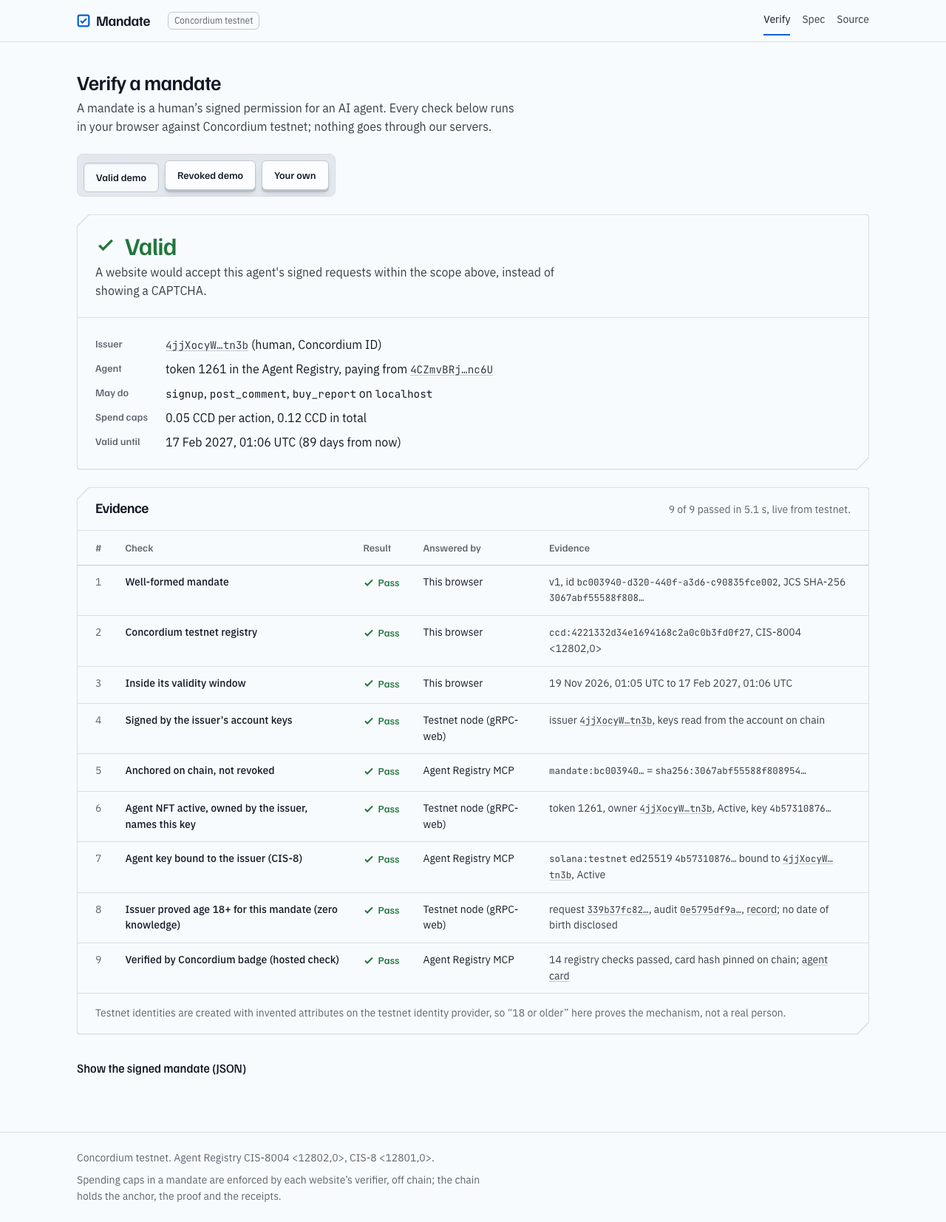
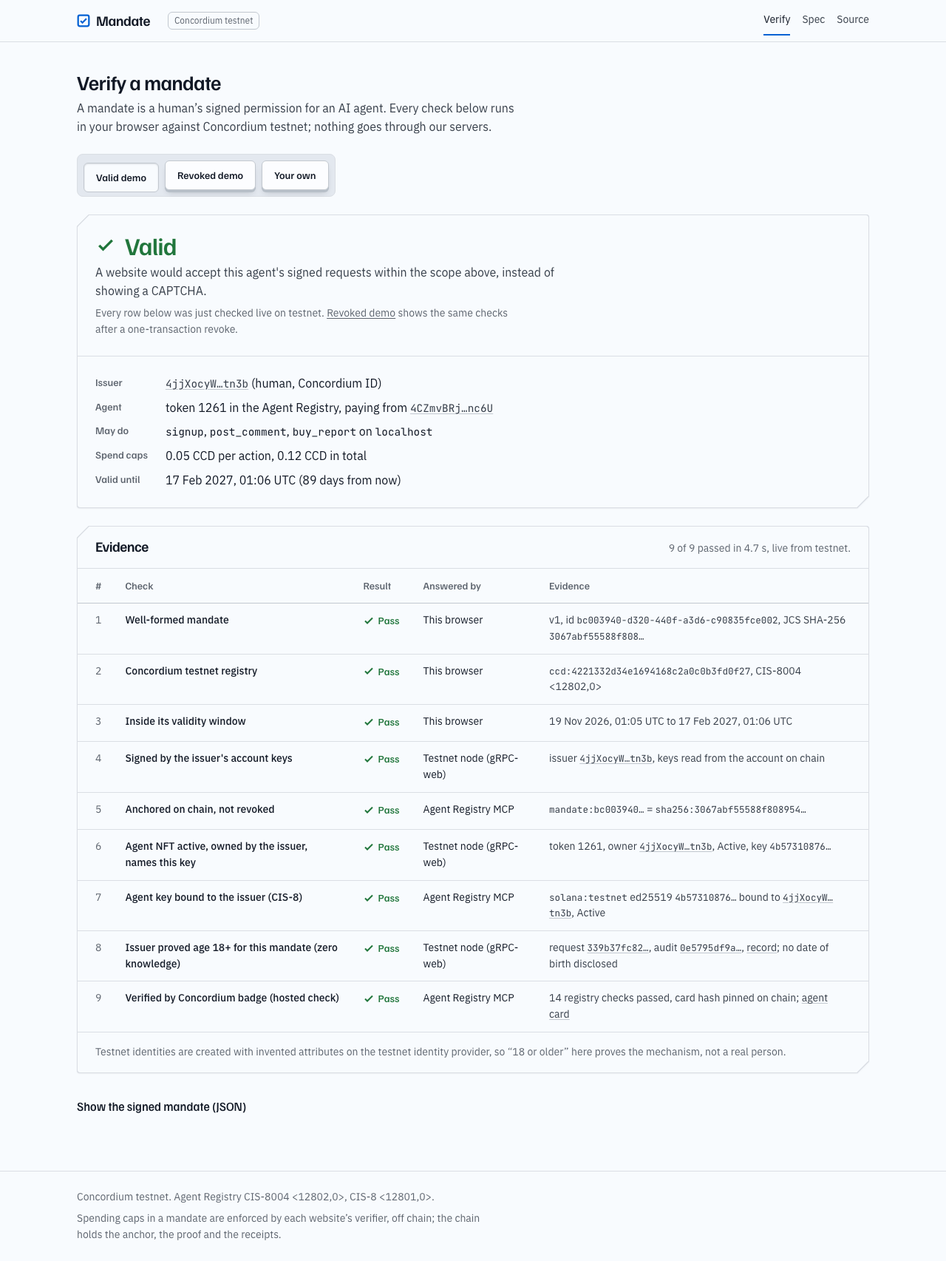
Final-gate fixes: phone layout of the console, invented demo-site name, focused rejection view, verify-page retries and could-not-check state
- console mandates become stacked cards under 48rem; nav labels never wrap; layout guard in Playwright (no horizontal overflow, no overlapping cells, no wrapping nav links), shown to catch the old layout
- demo site renamed to the fictional Larchfield Reports
- feed: a rejection shows the failing check first, passed checks next, and one quiet line for checks not run; screenshots stay collapsed
- verify page: a hint under Valid; up to 3 attempts with a visible Retrying state; a network failure renders as Could not check, never Invalid (tests simulate both)
- secret guard reads secret files in subdirectories too

diff --git a/apps/verify-page/src/main.ts b/apps/verify-page/src/main.ts
@@ -59,13 +59,14 @@ function evidence(name: CheckName | "badge", m: Mandate, seen: RecordingView["se
   }
 }
 
-interface BadgeResult { ok: boolean; checks?: Record<string, unknown>; card?: string; error?: string }
+interface BadgeResult { ok: boolean; unavailable?: boolean; checks?: Record<string, unknown>; card?: string; error?: string }
 
-function row(i: number, name: CheckName | "badge", c: { ok: boolean | null; source?: string; reason?: string } | null, detail: string): string {
+function row(i: number, name: CheckName | "badge", c: { ok: boolean | null; source?: string; reason?: string; unknown?: boolean } | null, detail: string): string {
   const wait = c === null;
-  const state = wait ? "wait" : c.ok === false ? "fail" : c.ok === true ? "pass" : "skip";
-  const why = c?.ok === false && c.reason ? `<strong>${esc(c.reason)}</strong>${detail ? "<br>" : ""}` : "";
-  return `<tr data-state="${state}"><td class="n">${i}</td><td class="what">${LABEL[name]}</td><td class="res">${status(c?.ok ?? null, wait)}</td><td class="src">${wait ? '<span class="skeleton" style="width:8rem"></span>' : esc(SOURCE[c?.source ?? "local"] ?? String(c?.source))}</td><td class="detail">${why}${detail}</td></tr>`;
+  const state = wait ? "wait" : c.unknown ? "unknown" : c.ok === false ? "fail" : c.ok === true ? "pass" : "skip";
+  const why = (c?.ok === false || c?.unknown) && c?.reason ? `<strong>${esc(c.reason)}</strong>${detail ? "<br>" : ""}` : "";
+  const res = c?.unknown ? `<span class="status status--warn">${ICON.skip}Could not check</span>` : status(c?.ok ?? null, wait);
+  return `<tr data-state="${state}"><td class="n">${i}</td><td class="what">${LABEL[name]}</td><td class="res">${res}</td><td class="src">${wait ? '<span class="skeleton" style="width:8rem"></span>' : esc(SOURCE[c?.source ?? "local"] ?? String(c?.source))}</td><td class="detail">${why}${detail}</td></tr>`;
 }
 
 function renderFacts(sm: SignedMandate) {
@@ -86,11 +87,39 @@ function renderFacts(sm: SignedMandate) {
 
 function setVerdict(kind: "pass" | "fail" | "wait", word: string, why: string) {
   $("verdict").className = `verdict verdict--${kind}`;
+  $("verdict-hint").hidden = true;
   $("verdict-word").innerHTML = `${kind === "pass" ? ICON.pass : kind === "fail" ? ICON.fail : ""}${esc(word)}`;
   $("verdict-why").textContent = why;
 }
 
-const WORD: Record<string, string> = { revoked: "Revoked", expired: "Expired", not_yet_valid: "Not yet valid", chain_unavailable: "Could not reach the chain" };
+const WORD: Record<string, string> = { revoked: "Revoked", expired: "Expired", not_yet_valid: "Not yet valid" };
+const ATTEMPTS = 3;
+
+/** A failure caused by the network (node, MCP or record host not answering), not by the mandate. Never shown as "invalid". */
+function transient(c: { ok: boolean | null; code?: string; reason?: string } | undefined): boolean {
+  if (!c || c.ok !== false) return false;
+  if (c.code === "chain_unavailable") return true;
+  return c.code === "adult_proof_invalid" && /unavailable|failed to fetch|timed? ?out|HTTP 5\d\d|network/i.test(c.reason ?? "");
+}
+
+interface Attempt { result: VerifyResult; view: RecordingView; badge: BadgeResult }
+
+async function attempt(sm: SignedMandate): Promise<Attempt> {
+  const mcp = new McpClient(TESTNET.mcpUrl, "testnet", 6000);
+  const client = new ConcordiumGRPCWebClient(`https://${TESTNET.grpcHost}`, TESTNET.grpcPort, { timeout: 15000 });
+  const registry = await loadRegistry(client);
+  const view = new RecordingView(new ConcordiumChainView({ client, registry, mcp, fetchRecord: defaultRecordFetcher() }));
+  const badgeP = (async (): Promise<BadgeResult> => {
+    try {
+      const a = await mcp.agentOf(sm.mandate.agent.tokenId);
+      if (!a) return { ok: false, error: "agent not found" };
+      const b = await mcp.checkBadge(a.tokenAddress);
+      return { ok: b.badge_valid && b.issues.length === 0, checks: b.checks, card: a.agentUri ?? undefined, ...(b.badge_valid ? {} : { error: `badge invalid: ${JSON.stringify(b.issues).slice(0, 160)}` }) };
+    } catch (e) { return { ok: false, unavailable: true, error: `the Agent Registry service did not answer (${(e as Error).message.slice(0, 80)})` }; }
+  })();
+  const result = await verifyMandate(sm, { network: CCD_TESTNET, registry: { index: String(TESTNET.cis8004.index), subindex: "0" } }, view);
+  return { result, view, badge: await badgeP };
+}
 
 async function run(sm: SignedMandate) {
   $("result").setAttribute("aria-busy", "true");
@@ -100,43 +129,50 @@ async function run(sm: SignedMandate) {
   const tbody = $("ledger").querySelector("tbody")!;
   tbody.innerHTML = order.map((n, i) => row(i + 1, n, null, "")).join("");
   const t0 = performance.now();
-  let result: VerifyResult;
-  let view: RecordingView;
-  const mcp = new McpClient(TESTNET.mcpUrl, "testnet", 6000);
-  let badge: BadgeResult | undefined;
-  try {
-    const client = new ConcordiumGRPCWebClient(`https://${TESTNET.grpcHost}`, TESTNET.grpcPort, { timeout: 15000 });
-    const registry = await loadRegistry(client);
-    view = new RecordingView(new ConcordiumChainView({ client, registry, mcp, fetchRecord: defaultRecordFetcher() }));
-    const badgeP = (async (): Promise<BadgeResult> => {
-      try {
-        const a = await mcp.agentOf(sm.mandate.agent.tokenId);
-        if (!a) return { ok: false, error: "agent not found" };
-        const b = await mcp.checkBadge(a.tokenAddress);
-        return { ok: b.badge_valid && b.issues.length === 0, checks: b.checks, card: a.agentUri ?? undefined, ...(b.badge_valid ? {} : { error: `badge invalid: ${JSON.stringify(b.issues).slice(0, 160)}` }) };
-      } catch (e) { return { ok: false, error: `badge check unavailable: ${(e as Error).message}` }; }
-    })();
-    result = await verifyMandate(sm, { network: CCD_TESTNET, registry: { index: String(TESTNET.cis8004.index), subindex: "0" } }, view);
-    badge = await badgeP;
-  } catch (e) {
-    setVerdict("fail", "Could not reach the chain", `The testnet node did not answer (${(e as Error).message.slice(0, 120)}). Try again in a minute.`);
-    tbody.innerHTML = order.map((n, i) => row(i + 1, n, { ok: null }, "")).join("");
+  let got: Attempt | null = null;
+  let lastError = "";
+  for (let i = 1; i <= ATTEMPTS; i++) {
+    try {
+      got = await attempt(sm);
+      const shaky = got.result.checks.some(transient) || !!got.badge.unavailable;
+      if (!shaky || i === ATTEMPTS) break;
+      lastError = "a testnet service did not answer";
+    } catch (e) {
+      got = null;
+      lastError = (e as Error).message.slice(0, 120);
+      if (i === ATTEMPTS) break;
+    }
+    setVerdict("wait", "Retrying", `Attempt ${i + 1} of ${ATTEMPTS}: ${lastError}. This is a network problem, not a problem with the mandate.`);
+    $("elapsed").textContent = `Retrying in ${2 * i} s`;
+    await new Promise((r) => setTimeout(r, 2000 * i));
+  }
+  if (!got) {
+    setVerdict("wait", "Could not check", `Concordium testnet did not answer after ${ATTEMPTS} attempts (${lastError}). This says nothing about the mandate; reload in a minute.`);
+    tbody.innerHTML = order.map((n, i) => row(i + 1, n, { ok: null, unknown: true }, "")).join("");
+    $("elapsed").textContent = "Could not reach testnet.";
     $("result").setAttribute("aria-busy", "false");
     return;
   }
+  const { result, view, badge } = got;
   const hash = mandateHash(sm.mandate);
   const byName = new Map<string, Check>(result.checks.map((c) => [c.name, c]));
   tbody.innerHTML = order.map((n, i) => {
-    if (n === "badge") return row(i + 1, n, { ok: badge!.ok, source: "mcp", ...(badge!.error ? { reason: badge!.error } : {}) }, evidence(n, sm.mandate, view.seen, hash, badge));
+    if (n === "badge") return row(i + 1, n, { ok: badge.unavailable ? null : badge.ok, unknown: !!badge.unavailable, source: "mcp", ...(badge.error ? { reason: badge.error } : {}) }, evidence(n, sm.mandate, view.seen, hash, badge));
     const c = byName.get(n)!;
-    return row(i + 1, n, c, evidence(n, sm.mandate, view.seen, hash));
+    return row(i + 1, n, transient(c) ? { ...c, ok: null, unknown: true } : c, evidence(n, sm.mandate, view.seen, hash));
   }).join("");
-  $("elapsed").textContent = `${result.checks.filter((c) => c.ok).length + (badge?.ok ? 1 : 0)} of ${order.length} passed in ${((performance.now() - t0) / 1000).toFixed(1)} s, live from testnet.`;
-  if (result.ok) setVerdict("pass", "Valid", "A website would accept this agent's signed requests within the scope above, instead of showing a CAPTCHA.");
-  else if (result.code === "revoked") {
+  const unknown = result.checks.filter(transient).length + (badge.unavailable ? 1 : 0);
+  const passed = result.checks.filter((c) => c.ok).length + (badge.ok ? 1 : 0);
+  $("elapsed").textContent = `${passed} of ${order.length} passed${unknown ? `, ${unknown} could not be checked` : ""} in ${((performance.now() - t0) / 1000).toFixed(1)} s, live from testnet.`;
+  const realFail = result.checks.find((c) => c.ok === false && !transient(c));
+  if (result.ok) {
+    setVerdict("pass", "Valid", "A website would accept this agent's signed requests within the scope above, instead of showing a CAPTCHA.");
+    $("verdict-hint").hidden = false;
+  } else if (realFail?.code === "revoked") {
     const at = /^revoked\|at:(\d+)$/.exec(String(view.seen.anchor ?? ""))?.[1];
     setVerdict("fail", "Revoked", `The issuer revoked this mandate on chain${at ? ` on ${fmtDate(Number(at))}` : ""}. Websites now reject the agent's requests; the demo site notices within its 10-second cache bound.`);
-  } else setVerdict("fail", WORD[result.code!] ?? "Rejected", result.reason ?? "");
+  } else if (realFail) setVerdict("fail", WORD[realFail.code!] ?? "Rejected", realFail.reason ?? "");
+  else setVerdict("wait", "Could not check", "Every check that ran passed, but part of testnet did not answer after 3 attempts. This says nothing against the mandate; reload in a minute.");
   $("result").setAttribute("aria-busy", "false");
 }
 

diff --git a/tests/web/ui.spec.ts b/tests/web/ui.spec.ts
@@ -16,6 +16,34 @@ async function axe(page: Page) {
 async function up(url: string) {
   try { return (await fetch(url, { signal: AbortSignal.timeout(2000) })).ok; } catch { return false; }
 }
+/**
+ * Layout guard: no horizontal page overflow; inside each row, no two visible cells overlap; nav links stay on one line.
+ * Catches the class of bug where a table squeezed to phone width piles its text on top of itself.
+ */
+async function layoutProblems(page: Page, rowSelector: string, cellSelector = ":scope > *"): Promise<string[]> {
+  return page.evaluate(([rowSel, cellSel]) => {
+    const out: string[] = [];
+    const de = document.documentElement;
+    if (de.scrollWidth > de.clientWidth + 1) out.push(`page overflows horizontally: ${de.scrollWidth} > ${de.clientWidth}`);
+    document.querySelectorAll(rowSel).forEach((row, ri) => {
+      const r = row.getBoundingClientRect();
+      if (r.right > de.clientWidth + 1) out.push(`row ${ri} sticks out: right ${Math.round(r.right)}`);
+      const cells = [...row.querySelectorAll(cellSel)].map((c) => ({ c, b: c.getBoundingClientRect() })).filter((x) => x.b.width > 0 && x.b.height > 0 && getComputedStyle(x.c).visibility !== "hidden");
+      for (let i = 0; i < cells.length; i++) for (let j = i + 1; j < cells.length; j++) {
+        const a = cells[i]!.b, b = cells[j]!.b;
+        const ox = Math.min(a.right, b.right) - Math.max(a.left, b.left), oy = Math.min(a.bottom, b.bottom) - Math.max(a.top, b.top);
+        if (ox > 2 && oy > 2) out.push(`row ${ri}: cells ${i} and ${j} overlap (${Math.round(ox)}x${Math.round(oy)} px)`);
+      }
+    });
+    document.querySelectorAll(".nav a").forEach((a) => {
+      const lh = parseFloat(getComputedStyle(a).lineHeight) || parseFloat(getComputedStyle(a).fontSize) * 1.6;
+      const lines = Math.round((a.getBoundingClientRect().height - parseFloat(getComputedStyle(a).paddingTop) - parseFloat(getComputedStyle(a).paddingBottom) - parseFloat(getComputedStyle(a).borderBottomWidth)) / lh);
+      if (lines > 1) out.push(`nav link "${a.textContent}" wraps onto ${lines} lines`);
+    });
+    return out;
+  }, [rowSelector, cellSelector] as const);
+}
+
 const shot = (page: Page, name: string, project: string) => page.screenshot({ path: `${SCREENS}/${name}-${project}.png`, fullPage: true });
 
 test.describe("verify page (GitHub Pages build)", () => {
@@ -25,6 +53,8 @@ test.describe("verify page (GitHub Pages build)", () => {
     await expect(page.locator("#verdict-word")).toHaveText("Valid");
     await expect(page.locator("#ledger tbody tr[data-state=pass]")).toHaveCount(9);
     await expect(page.locator("#facts")).toContainText("Valid until");
+    await expect(page.locator("#verdict-hint")).toBeVisible();
+    expect(await layoutProblems(page, "#ledger tbody tr", ":scope > td")).toEqual([]);
     await axe(page);
     await shot(page, "verify-valid", info.project.name);
   });
@@ -37,6 +67,25 @@ test.describe("verify page (GitHub Pages build)", () => {
     await expect(page.locator("#ledger tbody tr[data-state=fail]")).toContainText("revoked");
     await axe(page);
     await shot(page, "verify-revoked", info.project.name);
+  });
+
+  test("a node or MCP outage shows 'could not check', never 'invalid'", async ({ page }) => {
+    await page.route(/grpc\.testnet\.concordium\.com|agent-registry-mcp\.concordium\.com/, (r) => r.abort("connectionrefused"));
+    await page.goto(`${VERIFY}?m=demo-valid`);
+    await expect(page.locator("#verdict-word")).toHaveText("Retrying", { timeout: 60_000 });
+    await expect(page.locator("#result")).toHaveAttribute("aria-busy", "false", { timeout: 120_000 });
+    await expect(page.locator("#verdict-word")).toHaveText("Could not check");
+    await expect(page.locator(".status--fail")).toHaveCount(0);
+    await expect(page.locator("#verdict")).not.toHaveClass(/verdict--fail/);
+  });
+
+  test("a transient outage is retried and then succeeds", async ({ page }) => {
+    let refused = 0;
+    await page.route(/grpc\.testnet\.concordium\.com/, (r) => (refused++ < 2 ? r.abort("connectionrefused") : r.continue()));
+    await page.goto(`${VERIFY}?m=demo-valid`);
+    await expect(page.locator("#verdict-word")).toHaveText("Retrying", { timeout: 60_000 });
+    await expect(page.locator("#result")).toHaveAttribute("aria-busy", "false", { timeout: 120_000 });
+    await expect(page.locator("#verdict-word")).toHaveText("Valid");
   });
 
   test("pasting something that is not a mandate shows an error, and the page works by keyboard", async ({ page }) => {
@@ -60,12 +109,14 @@ test.describe("demo relying party", () => {
     const items = page.locator("#feed > li .entry");
     test.skip((await items.count()) === 0, "no agent traffic yet");
     await expect(page.locator("#feed")).toContainText("Accepted, no puzzle");
+    await expect(page.locator("#feed details[open]")).toHaveCount(0);
+    expect(await layoutProblems(page, "#feed > li .entry", ":scope > span")).toEqual([]);
+    await shot(page, "site-feed", info.project.name);
     const summary = page.locator("#feed details summary").first();
     await summary.focus();
     await page.keyboard.press("Enter");
     await expect(page.locator("#feed details").first().locator("table")).toBeVisible();
     await axe(page);
-    await shot(page, "site-feed", info.project.name);
   });
   test("human sign-up form validates", async ({ page }) => {
     await page.goto(SITE);
@@ -82,6 +133,7 @@ test.describe("issuer console", () => {
     await expect(page.locator("#agent-badge")).toContainText("badge valid", { timeout: 30_000 });
     await expect(page.locator("#mandates tbody tr").first()).not.toContainText("Could not", { timeout: 30_000 });
     await expect(page.locator("#log tbody tr").first()).toBeVisible();
+    expect(await layoutProblems(page, "#mandates tbody tr.mrow", ":scope > td")).toEqual([]);
     await axe(page);
     await shot(page, "console", info.project.name);
   });

diff --git a/apps/demo-site/public/shop.js b/apps/demo-site/public/shop.js
@@ -40,7 +40,13 @@ function entry(a) {
   if (a.receipt) bits.push(`receipt ${tx(a.receipt.tx)} ${a.receipt.status === "finalized" ? "finalized" : a.receipt.status === "failed" ? "failed" : "submitted, waiting for finality"}`);
   if (a.payment) bits.push(`paid ${ccd(a.payment.amount)} in ${tx(a.payment.tx)}`);
   if (a.mandateId) bits.push(`mandate <span class="hash">${esc(a.mandateId.slice(0, 8))}…</span>`);
-  const rows = a.result.checks.map((c, i) => `<tr data-state="${c.ok === false ? "fail" : c.ok ? "pass" : "skip"}"><td class="n">${i + 1}</td><td class="what">${esc(LABEL[c.name] ?? c.name)}</td><td class="res">${status(c.ok)}</td><td class="src">${c.ok === null ? "" : esc(SOURCE[c.source] ?? c.source ?? "")}</td><td class="detail">${c.ok === false ? esc(c.reason ?? "") : ""}</td></tr>`).join("");
+  // A rejection leads with the check that failed; the ones that passed follow; checks that never ran collapse into one quiet line.
+  const numbered = a.result.checks.map((c, i) => ({ ...c, n: i + 1 }));
+  const failed = numbered.filter((c) => c.ok === false);
+  const passed = numbered.filter((c) => c.ok === true);
+  const notRun = numbered.filter((c) => c.ok === null);
+  const tr = (c) => `<tr data-state="${c.ok === false ? "fail" : "pass"}"><td class="n">${c.n}</td><td class="what">${esc(LABEL[c.name] ?? c.name)}</td><td class="res">${status(c.ok)}</td><td class="src">${esc(SOURCE[c.source] ?? c.source ?? "")}</td><td class="detail">${c.ok === false ? esc(c.reason ?? "") : ""}</td></tr>`;
+  const rows = [...failed, ...passed].map(tr).join("") + (notRun.length ? `<tr data-state="skip"><td class="n"></td><td class="what" colspan="4">${notRun.length} later check${notRun.length === 1 ? "" : "s"} not run: the site stops at the first failure</td></tr>` : "");
   const isNew = !seen.has(a.id);
   seen.add(a.id);
   return `<li><div class="entry${isNew ? " entry--new" : ""}" data-id="${a.id}">
@@ -48,7 +54,7 @@ function entry(a) {
     <span class="entry__title">${title}</span>
     <span class="entry__verdict">${verdict}</span>
     <span class="entry__sub">${bits.join("; ")}</span>
-    <details data-id="${a.id}"${open.has(a.id) ? " open" : ""}><summary>All ${a.result.checks.length} checks</summary>
+    <details data-id="${a.id}"${open.has(a.id) ? " open" : ""}><summary>${ok ? `All ${a.result.checks.length} checks passed` : `Why it was rejected (${failed.length ? "check " + failed[0].n : "details"})`}</summary>
       <div class="scroll-x"><table class="ledger"><thead><tr><th scope="col">#</th><th scope="col">Check</th><th scope="col">Result</th><th scope="col">Answered by</th><th scope="col">Why</th></tr></thead><tbody>${rows}</tbody></table></div>
     </details></div></li>`;
 }

diff --git a/apps/demo-site/public/index.html b/apps/demo-site/public/index.html
@@ -3,7 +3,7 @@
 <head>
 <meta charset="utf-8">
 <meta name="viewport" content="width=device-width, initial-scale=1">
-<title>Northwind Data - demo relying party</title>
+<title>Larchfield Reports - fictional demo site</title>
 <meta name="description" content="Demo website that lets AI agents with a Concordium mandate skip the CAPTCHA, with a live feed of every agent request and its on-chain receipt.">
 <link rel="preconnect" href="https://fonts.googleapis.com"><link rel="preconnect" href="https://fonts.gstatic.com" crossorigin>
 <link href="https://fonts.googleapis.com/css2?family=Familjen+Grotesk:wght@500;600&family=IBM+Plex+Sans:wght@400;500&family=JetBrains+Mono:wght@400;500&display=swap" rel="stylesheet">
@@ -13,7 +13,7 @@
 <a class="visually-hidden" href="#main">Skip to content</a>
 <header class="topbar">
   <div class="topbar__in">
-    <a class="wordmark" href="/">Northwind Data</a>
+    <a class="wordmark" href="/">Larchfield Reports</a>
     <span class="env">Demo website on Concordium testnet</span>
     <nav class="nav" aria-label="Main"><a href="/" aria-current="page">Sign up</a><a href="#feed-h">Agent requests</a></nav>
   </div>
@@ -49,7 +49,7 @@
   </div>
 </main>
 <footer class="footer"><div class="footer__in">
-  <p>A demo relying party for the Mandate project. Free routes accept a mandate instead of a puzzle; the report costs 0.05 CCD through x402. Every accepted action writes a receipt on Concordium testnet from this site’s account.</p>
+  <p>Larchfield Reports is a fictional demo site for the Mandate project. Free routes accept a mandate instead of a puzzle; the report costs 0.05 CCD through x402. Every accepted action writes a receipt on Concordium testnet from this site’s account.</p>
 </div></footer>
 <noscript><p class="callout">The request feed needs JavaScript.</p></noscript>
 <script type="module" src="/shop.js"></script>

diff --git a/apps/console/public/index.html b/apps/console/public/index.html
@@ -15,7 +15,7 @@
   <div class="topbar__in">
     <a class="wordmark" href="/"><svg class="wordmark__mark" viewBox="0 0 16 16" aria-hidden="true"><rect x="1.5" y="1.5" width="13" height="13" rx="2" fill="none" stroke="currentColor" stroke-width="2"/><path d="M4.5 8.2l2.2 2.2 4.8-4.8" fill="none" stroke="currentColor" stroke-width="2"/></svg>Mandate</a>
     <span class="env">Console, Concordium testnet</span>
-    <nav class="nav" aria-label="Sections"><a href="#agent-h">Agent</a><a href="#issue-h">Issue</a><a href="#mandates-h">Mandates</a><a href="#log-h">On-chain log</a></nav>
+    <nav class="nav" aria-label="Sections"><a href="#agent-h">Agent</a><a href="#issue-h">Issue</a><a href="#mandates-h">Mandates</a><a href="#log-h">Log</a></nav>
   </div>
 </header>
 <main id="main" class="page stack">
@@ -67,7 +67,7 @@
 
   <section class="panel" aria-labelledby="mandates-h">
     <div class="panel__head"><h2 id="mandates-h">Mandates</h2><p id="mandates-note">Status is read from the chain</p></div>
-    <div class="scroll-x"><table class="ledger" id="mandates"><thead><tr><th scope="col">Mandate</th><th scope="col">May do</th><th scope="col">Until</th><th scope="col">Status</th><th scope="col"><span class="visually-hidden">Actions</span></th></tr></thead><tbody><tr><td colspan="5"><span class="skeleton" style="width:70%"></span></td></tr></tbody></table></div>
+    <div class="scroll-x"><table class="ledger mtable" id="mandates"><thead><tr><th scope="col">Mandate</th><th scope="col">May do</th><th scope="col">Until</th><th scope="col">Status</th><th scope="col"><span class="visually-hidden">Actions</span></th></tr></thead><tbody><tr><td colspan="5"><span class="skeleton" style="width:70%"></span></td></tr></tbody></table></div>
   </section>
 
   <section class="panel" aria-labelledby="log-h">

diff --git a/site/assets/mandate.css b/site/assets/mandate.css
@@ -187,3 +187,22 @@ fieldset.field { border: 0; padding: 0; margin: 0; min-width: 0; }
 .confirm .input { width: 12rem; min-height: 36px; }
 td.actions-cell { text-align: right; white-space: nowrap; }
 @media (max-width: 48rem) { td.actions-cell { text-align: left; } }
+.verdict__hint { font-size: var(--text-sm); color: var(--color-muted); max-width: 70ch; }
+.ledger tr[data-state="skip"] td, .ledger tr[data-state="unknown"] td { color: var(--color-muted); }
+.nav a { white-space: nowrap; }
+.mtable .m-anchor { display: block; }
+.mtable .m-label { position: absolute; width: 1px; height: 1px; overflow: hidden; clip-path: inset(50%); }
+.mtable td.m-until { white-space: nowrap; }
+@media (max-width: 48rem) {
+  .mtable thead { position: absolute; width: 1px; height: 1px; overflow: hidden; clip-path: inset(50%); }
+  .mtable, .mtable tbody { display: block; }
+  .mtable tr.mrow { display: grid; grid-template-columns: minmax(0, 1fr) auto; gap: var(--space-2xs) var(--space-sm); padding: var(--space-md); border-bottom: var(--rule-hair) solid var(--color-rule); }
+  .mtable tr.mrow td { display: block; padding: 0; border: 0; min-width: 0; }
+  .mtable td.m-id { grid-column: 1; grid-row: 1; }
+  .mtable td.m-status { grid-column: 2; grid-row: 1; }
+  .mtable td.m-scope, .mtable td.m-until, .mtable td.actions-cell { grid-column: 1 / -1; }
+  .mtable td.m-until { white-space: normal; color: var(--color-ink-2); }
+  .mtable .m-label { position: static; width: auto; height: auto; overflow: visible; clip-path: none; color: var(--color-muted); }
+  .mtable td.actions-cell { text-align: left; white-space: normal; padding-top: var(--space-xs); }
+}
+@media (max-width: 40rem) { .nav { gap: var(--space-sm); font-size: var(--text-xs); } }

diff --git a/apps/console/public/console.js b/apps/console/public/console.js
@@ -60,11 +60,11 @@ async function loadMandates() {
       const actions = m.status === "active"
         ? `<div class="confirm" data-id="${esc(m.id)}"><button class="key key--danger" type="button" data-act="ask">Revoke</button></div>`
         : m.revoked ? `revoked in ${tx(m.revoked.tx)}` : "";
-      return `<tr data-state="${m.status === "active" ? "pass" : "skip"}">
-        <td><span class="hash">${esc(m.id.slice(0, 8))}…</span>${m.txs ? `<br><span class="small">anchor ${tx(m.txs.anchor)}</span>` : ""}</td>
-        <td>${m.scope.actions.map((a) => esc(ACTION[a] ?? a)).join(", ")} on ${m.scope.domains.map(esc).join(", ")}${caps}</td>
-        <td>${date(m.expiry)}</td>
-        <td>${STATUS[m.status] ?? esc(m.status)}</td>
+      return `<tr class="mrow" data-state="${m.status === "active" ? "pass" : "skip"}">
+        <td class="m-id"><span class="hash">${esc(m.id.slice(0, 8))}…</span>${m.txs ? `<span class="small m-anchor">anchor ${tx(m.txs.anchor)}</span>` : ""}</td>
+        <td class="m-scope">${m.scope.actions.map((a) => esc(ACTION[a] ?? a)).join(", ")} on ${m.scope.domains.map(esc).join(", ")}${caps}</td>
+        <td class="m-until"><span class="m-label">Until </span>${date(m.expiry)}</td>
+        <td class="m-status">${STATUS[m.status] ?? esc(m.status)}</td>
         <td class="actions-cell">${actions}</td></tr>`;
     }).join("");
   } catch (e) {

diff --git a/apps/demo-site/src/main.ts b/apps/demo-site/src/main.ts
@@ -1,4 +1,4 @@
-// Demo relying party "Northwind Data" (127.0.0.1). Instead of a CAPTCHA, routes accept an AI agent with a valid Concordium mandate.
+// Demo relying party "Larchfield Reports" (127.0.0.1). Instead of a CAPTCHA, routes accept an AI agent with a valid Concordium mandate.
 //   GET  /                      the sign-up page and the live feed of agent requests (what this site decided and why)
 //   POST /api/signup            action "signup"         free, mandate required
 //   POST /api/comment           action "post_comment"   free, mandate required

diff --git a/apps/verify-page/index.html b/apps/verify-page/index.html
@@ -58,6 +58,7 @@
       <div class="verdict verdict--wait" id="verdict" aria-live="polite">
         <h2 class="verdict__word" id="verdict-word">Checking</h2>
         <p class="verdict__why" id="verdict-why">Reading the mandate and asking Concordium testnet.</p>
+        <p class="verdict__hint" id="verdict-hint" hidden>Every row below was just checked live on testnet. <a href="?m=demo-revoked">Revoked demo</a> shows the same checks after a one-transaction revoke.</p>
       </div>
       <dl class="facts" id="facts"></dl>
     </section>
